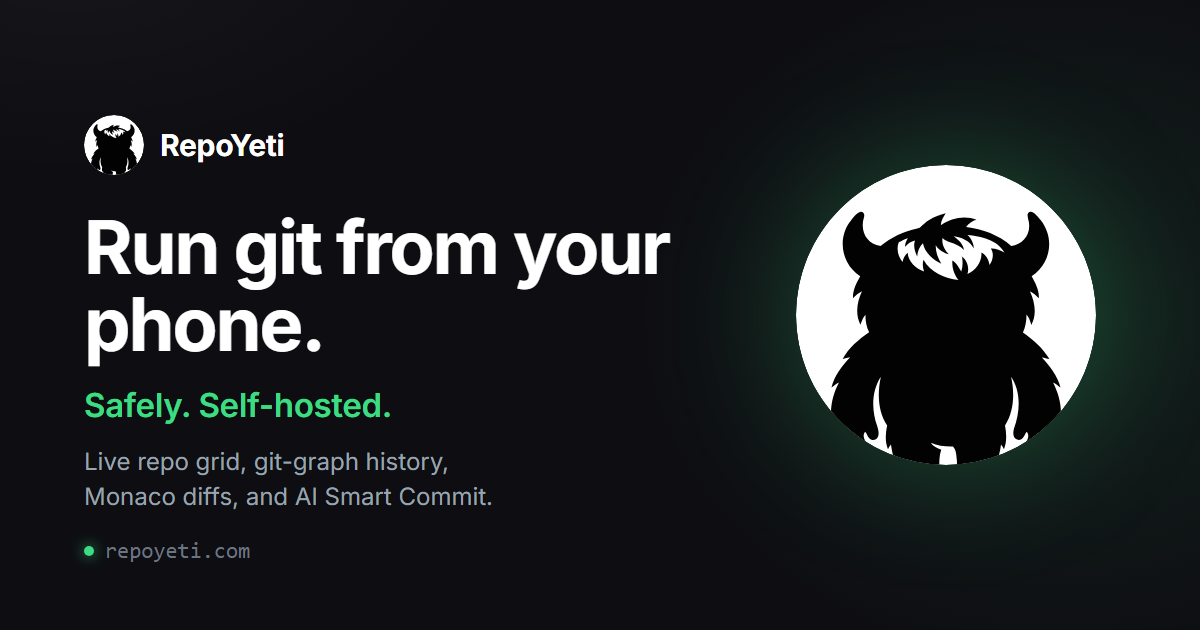
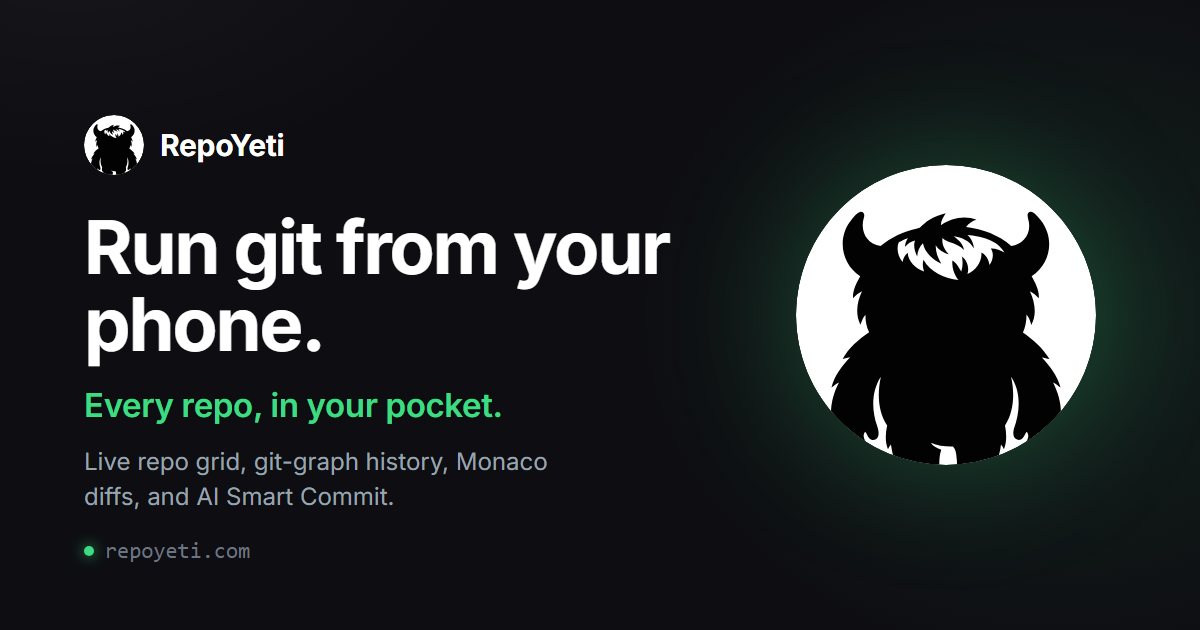
Drop patronizing 'safely'/'can't lose your work' copy; refresh OG card

Changed region(s): [[0.0617, 0.7238, 0.4625, 0.8143], [0.0617, 0.6032, 0.4317, 0.6937]]

diff --git a/index.html b/index.html
@@ -3,8 +3,8 @@
 <head>
   <meta charset="utf-8" />
   <meta name="viewport" content="width=device-width, initial-scale=1, viewport-fit=cover" />
-  <title>RepoYeti — run git from your phone, safely</title>
-  <meta name="description" content="A little daemon on your computer, a dashboard on your phone. Fetch, commit, and push from anywhere — with a live repo grid, git-graph history, Monaco diffs, and AI Smart Commit. It can't force-push or lose your work." />
+  <title>RepoYeti — run git from your phone</title>
+  <meta name="description" content="A little daemon on your computer, a dashboard on your phone. Fetch, commit, and push from anywhere — with a live repo grid, git-graph history, Monaco diffs, and AI Smart Commit." />
   <meta name="theme-color" content="#0e0e12" />
   <meta name="color-scheme" content="dark" />
   <link rel="icon" href="favicon.svg" type="image/svg+xml" />
@@ -13,17 +13,17 @@
 
   <meta property="og:type" content="website" />
   <meta property="og:site_name" content="RepoYeti" />
-  <meta property="og:title" content="RepoYeti — run git from your phone, safely" />
-  <meta property="og:description" content="A little daemon on your computer, a dashboard on your phone. Fetch, commit, push from anywhere — and it can't force-push or lose your work." />
+  <meta property="og:title" content="RepoYeti — run git from your phone" />
+  <meta property="og:description" content="A little daemon on your computer, a dashboard on your phone. Fetch, commit, and push from anywhere — live repo grid, git-graph history, Monaco diffs, and Smart Commit." />
   <meta property="og:url" content="https://repoyeti.com/" />
   <meta property="og:image" content="https://repoyeti.com/og.png" />
   <meta property="og:image:width" content="1200" />
   <meta property="og:image:height" content="630" />
-  <meta property="og:image:alt" content="RepoYeti — run git from your phone, safely" />
+  <meta property="og:image:alt" content="RepoYeti — run git from your phone" />
   <meta name="twitter:card" content="summary_large_image" />
   <meta name="twitter:image" content="https://repoyeti.com/og.png" />
-  <meta name="twitter:title" content="RepoYeti — run git from your phone, safely" />
-  <meta name="twitter:description" content="A little daemon on your computer, a dashboard on your phone. Do git from anywhere, safely." />
+  <meta name="twitter:title" content="RepoYeti — run git from your phone" />
+  <meta name="twitter:description" content="A little daemon on your computer, a dashboard on your phone. Do git from wherever you are." />
 
   <link rel="preconnect" href="https://fonts.googleapis.com" />
   <link rel="preconnect" href="https://fonts.gstatic.com" crossorigin />
@@ -245,8 +245,8 @@
       <div class="wrap hero-grid">
         <div>
           <p class="kicker">Self-hosted remote git manager</p>
-          <h1>Push a hotfix from your phone. Nothing bad can happen.</h1>
-          <p class="lede">RepoYeti is a little daemon that runs on your computer, finds your repos, and puts them on your phone. Fetch, commit, and push from anywhere. It can't force-push or throw away your work, because those buttons aren't there.</p>
+          <h1>Push a hotfix from your phone.</h1>
+          <p class="lede">RepoYeti is a little daemon that runs on your computer, finds your repos, and puts them on your phone. Fetch, commit, and push from wherever you are.</p>
           <div class="hero-cta">
             <a class="btn btn-primary" href="https://github.com/LunarWerxs/repoyeti" target="_blank" rel="noopener">
               <svg viewBox="0 0 16 16" width="18" height="18" fill="currentColor" aria-hidden="true"><path d="M8 0C3.58 0 0 3.58 0 8c0 3.54 2.29 6.53 5.47 7.59.4.07.55-.17.55-.38 0-.19-.01-.82-.01-1.49-2.01.37-2.53-.49-2.69-.94-.09-.23-.48-.94-.82-1.13-.28-.15-.68-.52-.01-.53.63-.01 1.08.58 1.23.82.72 1.21 1.87.87 2.33.66.07-.52.28-.87.51-1.07-1.78-.2-3.64-.89-3.64-3.95 0-.87.31-1.59.82-2.15-.08-.2-.36-1.02.08-2.12 0 0 .67-.21 2.2.82a7.6 7.6 0 012-.27c.68 0 1.36.09 2 .27 1.53-1.04 2.2-.82 2.2-.82.44 1.1.16 1.92.08 2.12.51.56.82 1.27.82 2.15 0 3.07-1.87 3.75-3.65 3.95.29.25.54.73.54 1.48 0 1.07-.01 1.93-.01 2.2 0 .21.15.46.55.38A8.01 8.01 0 0016 8c0-4.42-3.58-8-8-8z"/></svg>
@@ -291,7 +291,7 @@
       <div class="wrap sec-grid">
         <div class="rail"><p class="kicker">What it won't let you do</p><h2>An app that can push git from your phone should scare you.</h2></div>
         <div class="body">
-          <p class="prose" style="margin-bottom:18px">So we left the dangerous parts out. There's no force-push and no <span class="mono">reset --hard</span> anywhere in it. If something isn't safe to do half-asleep, it didn't make the cut.</p>
+          <p class="prose" style="margin-bottom:18px">So we left the dangerous parts out. There's no force-push and no <span class="mono">reset --hard</span> anywhere in it — a phone is a lousy place to rewrite history.</p>
           <ul class="rules">
             <li>
               <svg class="ic" viewBox="0 0 24 24" fill="none"><circle cx="12" cy="12" r="11" fill="rgba(61,220,132,.12)" stroke="rgba(61,220,132,.4)"/><path d="M7 12.5l3.2 3.2L17 9" stroke="#3ddc84" stroke-width="2" stroke-linecap="round" stroke-linejoin="round"/></svg>